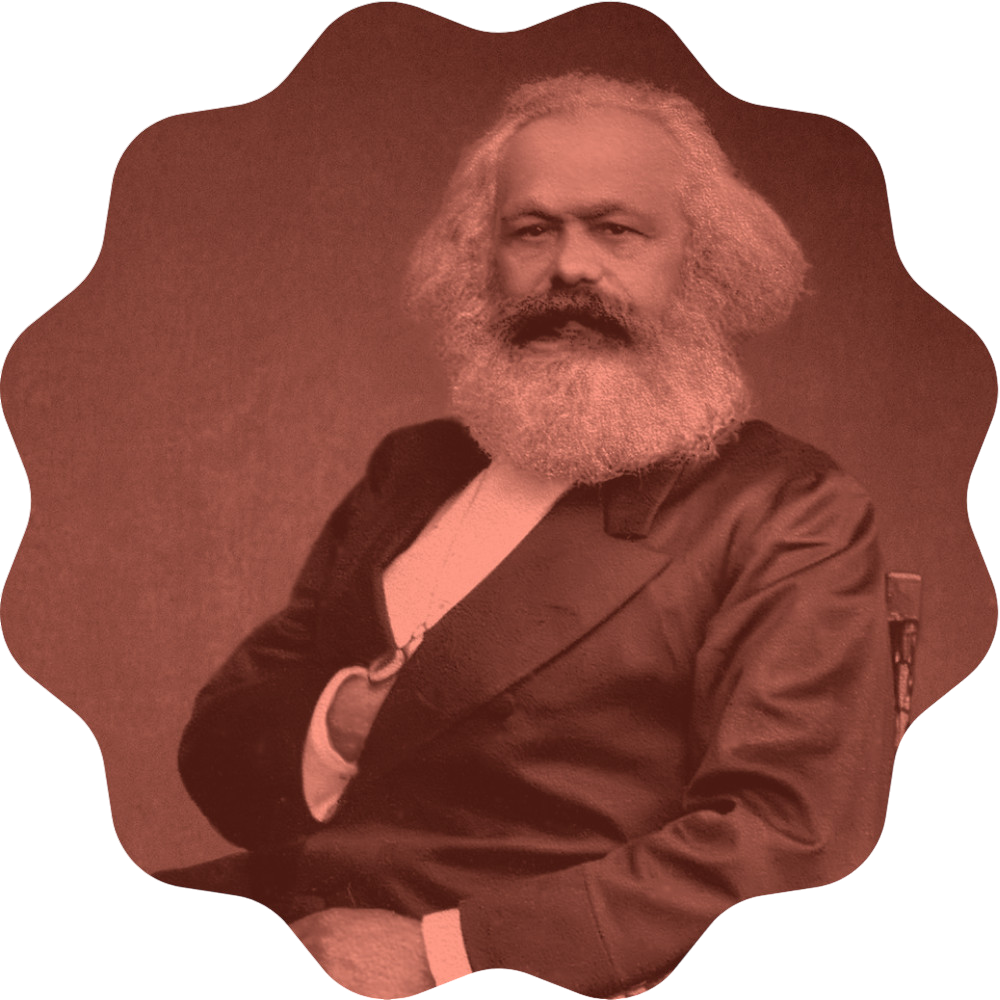
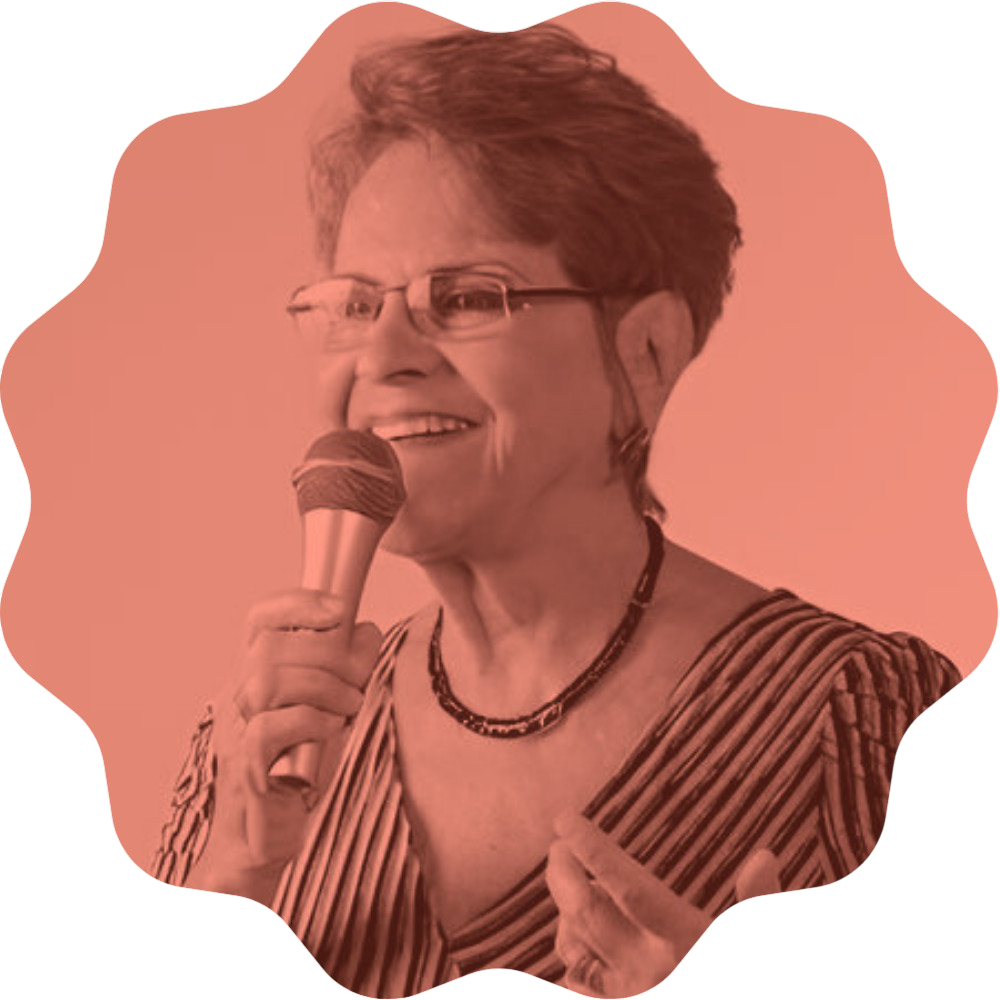
refactor: update teoric photo

diff --git a/src/pages/abordagem-clinica/abordagem-clinica.tsx b/src/pages/abordagem-clinica/abordagem-clinica.tsx
@@ -113,7 +113,7 @@ function AbordagemClinica() {
                                 </div>
 
                                 {/* 4 Círculos Diagonais (Superior Direito, Inferior Direito, Inferior Esquerdo, Superior Esquerdo) */}
-                                <div className="theorist-circle circle-top-right" title="Karl Marx">
+                                <div className="theorist-circle circle-top-right" title="Maria Vasconcellos">
                                     <img src={Teorico5} alt="Teórico 5" />
                                 </div>
 
